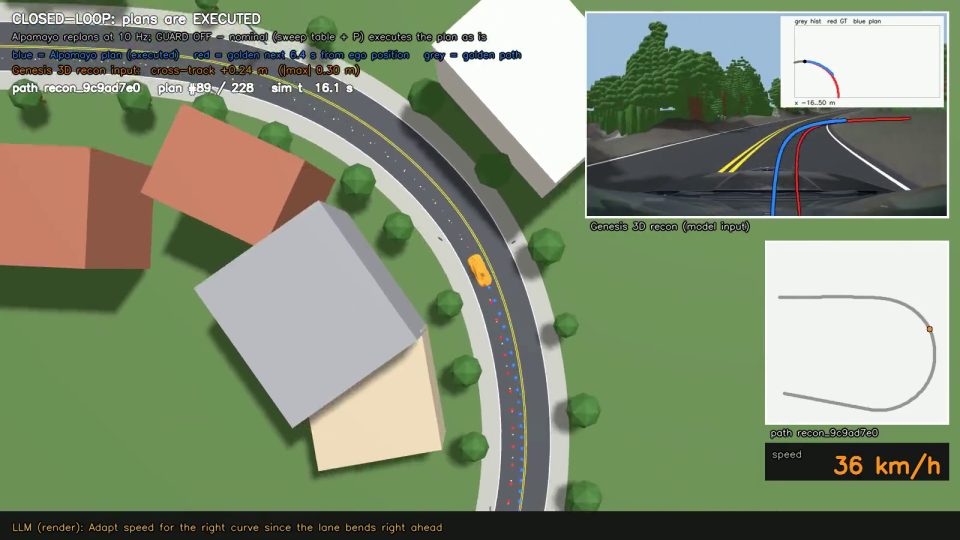
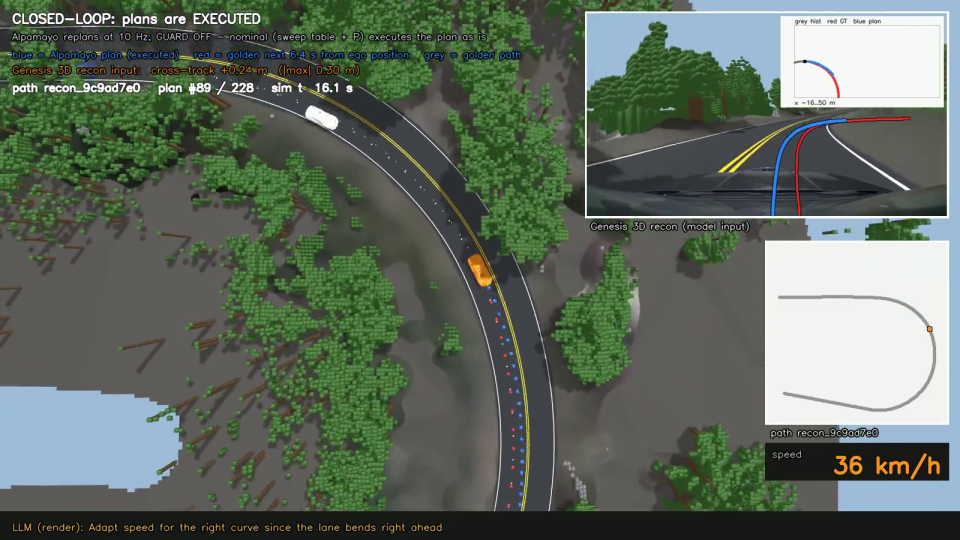
Sim2Real 보고서: 3·4절 영상 항공뷰를 실제 재현 장면으로 교체
Claude-Session: https://claude.ai/code/session_019x6mTCh13jXheQ9cigcMaW

diff --git a/[DIGLAB][26-10-12][허재원]Sim2Real_Render_vs_Real.md b/[DIGLAB][26-10-12][허재원]Sim2Real_Render_vs_Real.md
@@ -124,8 +124,8 @@ open-loop 영상 (각 영상 왼쪽 Genesis 입력, 오른쪽 s2r 입력)
 
 ![진짜 앞 카메라(왼쪽) vs Genesis 재현(오른쪽)](images_jw/s2r_recon_render_cmp.png)
 
-### 재현영상 
-[![](images_jw/thumb_v2_recon_ol.png)](https://github.com/user-attachments/assets/1d5b1bab-2b2e-4bc9-9d45-00427085acb8)
+### open-loop 영상
+[![](images_jw/thumb_v2_recon_ol.png)](https://github.com/user-attachments/assets/6d3ef87f-7ef4-44ae-9509-db253f66c4b2)
 
 ### 3.2 open-loop 결과
 
@@ -160,7 +160,7 @@ open-loop 영상 (각 영상 왼쪽 Genesis 입력, 오른쪽 s2r 입력)
 
 - 멈추기 직전 Alpamayo 는 앞이 비었는데도 "오른쪽 커브라 감속"(Adapt speed for the right curve)이라는 판단을 반복하며 계획 속도를 0 까지 낮춤 -> 2.3 절과 같은 Alpamayo 자체의 문제 (Park & Shim [1], VLADriveBench [2])
 
-[![](images_jw/thumb_v2_recon_cl.png)](https://github.com/user-attachments/assets/f6ad2c4f-2725-4d6a-916f-35b5af4c0220)
+[![](images_jw/thumb_v2_recon_cl.png)](https://github.com/user-attachments/assets/8e4cd265-5ab8-4e9d-ab79-a26db3bd31d3)
 
 ## 5. TODO
 
@@ -171,3 +171,4 @@ open-loop 영상 (각 영상 왼쪽 Genesis 입력, 오른쪽 s2r 입력)
 
 1. Park & Shim, *Grounding Driving VLA via Inverse Kinematics*, arXiv 2605.21061 (2026-05). https://arxiv.org/abs/2605.21061
 2. Nguyen et al., *VLADriveBench: Evaluating CoT-Action Relationship in VLA for Autonomous Driving*, arXiv 2606.12706 (2026-06). https://arxiv.org/abs/2606.12706
+
